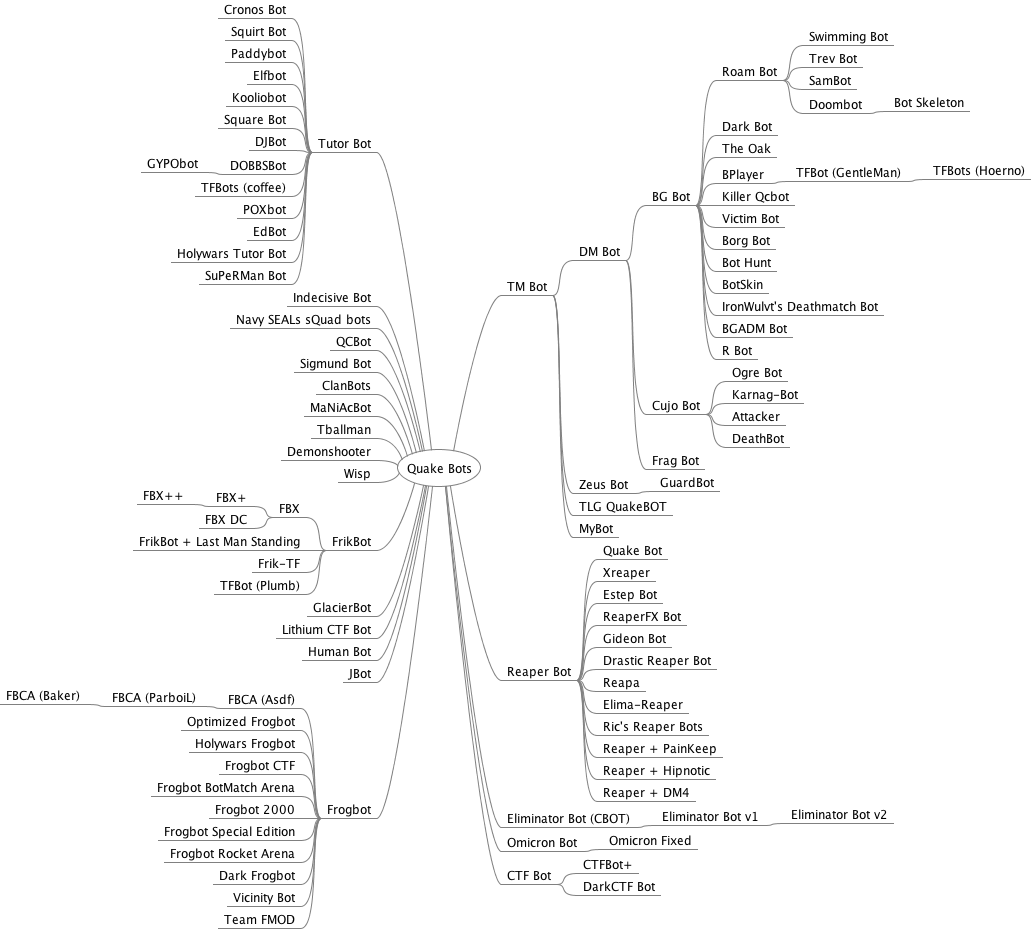
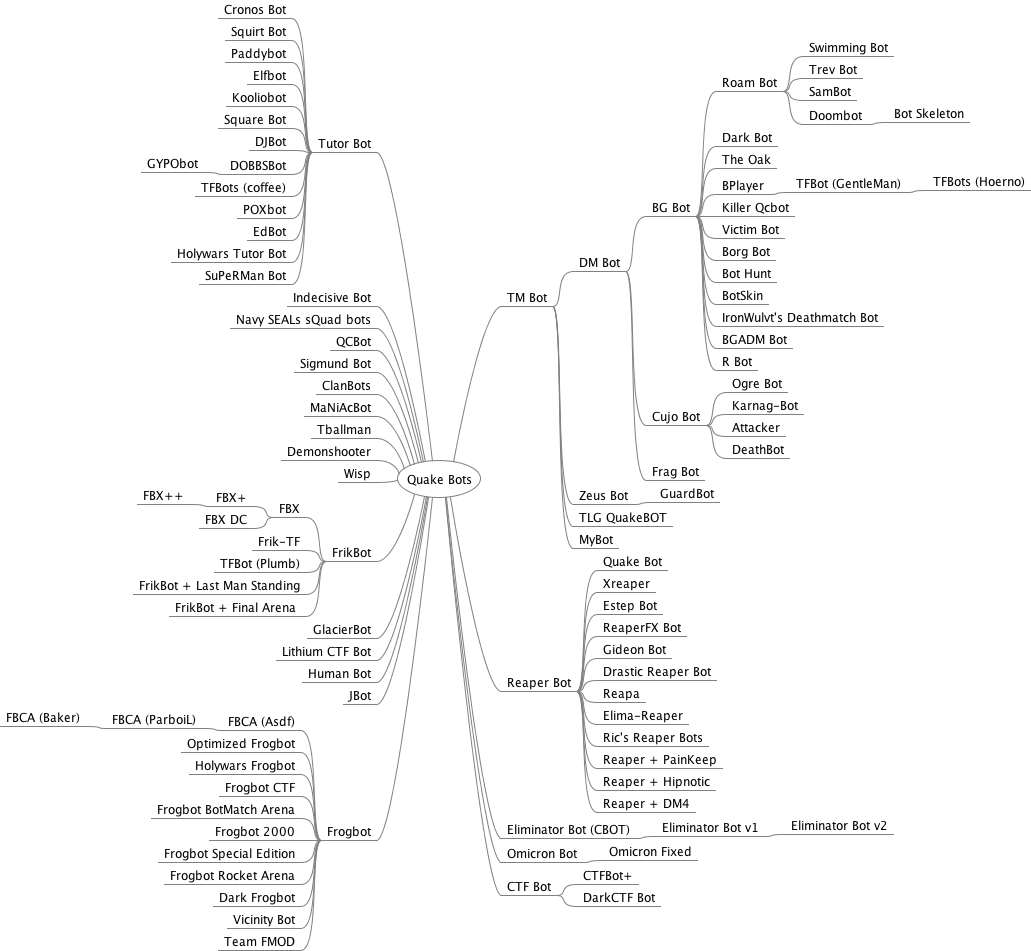
added FrikBot + Final Arena

diff --git a/mindmap/QuakeBots.mm b/mindmap/QuakeBots.mm
@@ -87,16 +87,17 @@
 <node CREATED="1622768965834" ID="ID_724353793" MODIFIED="1622768966954" POSITION="left" TEXT="Tballman"/>
 <node CREATED="1622929540892" ID="ID_927745678" MODIFIED="1622929541844" POSITION="left" TEXT="Demonshooter"/>
 <node CREATED="1622929965131" ID="ID_652083117" MODIFIED="1622929966278" POSITION="left" TEXT="Wisp"/>
-<node CREATED="1622514879263" ID="ID_981472223" MODIFIED="1624058348999" POSITION="left" TEXT="FrikBot">
+<node CREATED="1622514879263" ID="ID_981472223" MODIFIED="1624058665503" POSITION="left" TEXT="FrikBot">
 <node CREATED="1622840413966" ID="ID_534018268" MODIFIED="1623012543935" TEXT="FBX">
 <node CREATED="1622840422605" ID="ID_1263048651" MODIFIED="1623012537573" TEXT="FBX+">
 <node CREATED="1622840424022" ID="ID_738003569" MODIFIED="1623012528393" TEXT="FBX++"/>
 </node>
 <node CREATED="1623012256997" ID="ID_474755191" MODIFIED="1623012258885" TEXT="FBX DC"/>
 </node>
-<node CREATED="1624058349710" ID="ID_440874600" MODIFIED="1624058351122" TEXT="FrikBot + Last Man Standing"/>
 <node CREATED="1623129429375" ID="ID_1113451154" MODIFIED="1623129430409" TEXT="Frik-TF"/>
 <node CREATED="1623185282790" ID="ID_436242790" MODIFIED="1623185296771" TEXT="TFBot (Plumb)"/>
+<node CREATED="1624058349710" ID="ID_440874600" MODIFIED="1624058351122" TEXT="FrikBot + Last Man Standing"/>
+<node CREATED="1624058665913" ID="ID_195635832" MODIFIED="1624058666859" TEXT="FrikBot + Final Arena "/>
 </node>
 <node CREATED="1622957861665" ID="ID_11101189" MODIFIED="1622957862633" POSITION="left" TEXT="GlacierBot"/>
 <node CREATED="1623044348917" ID="ID_1450186111" MODIFIED="1623044350633" POSITION="left" TEXT="Lithium CTF Bot"/>

diff --git a/README.md b/README.md
@@ -46,7 +46,8 @@ Eliminator Bot v2 | Jon Down aka "Perged" and P. T. Craig aka "FuzzKatT" | elim2
 Estep Bot (EsTePBot) | Enrique Gonzalez Alonso aka "EsTePaRiO" | [estepbot2eng.zip](bin/estepbot2eng.zip)
 Frag Bot | Richard Peacock aka "The Goat" | [fragbot.zip](bin/fragbot.zip)
 Frik-TF | Raymond Martineau | [friktf-092800.zip](bin/friktf-092800.zip) (-)<br>[friktfqw.zip](bin/friktfqw.zip)<br>friktf-051800-qw.zip
-FrikBot + Last Man Standing | Raymond Martineau | [frik-lms.zip](bin/frik-lms.zip)
+FrikBot + Final Arena | Ryan Smith aka "Frika C" | [frikfa.zip](bin/frikfa.zip) (-)
+FrikBot + Last Man Standing | Raymond Martineau | [frik-lms.zip](bin/frik-lms.zip) (-)
 FrikBot X (FBX) | Ryan Smith aka "Frika C" | [fbxc.zip](bin/fbxc.zip)<br>[fbxb.zip](bin/fbxb.zip)<br>[fbxa.zip](bin/fbxa.zip)
 FrikBot X DreamCast (FBXDC) | Ryan Smith aka "Frika C" | [fbxdc.zip](bin/fbxdc.zip)
 FrikBot X+ (FBX+) | Igor9 | fbx+.zip
